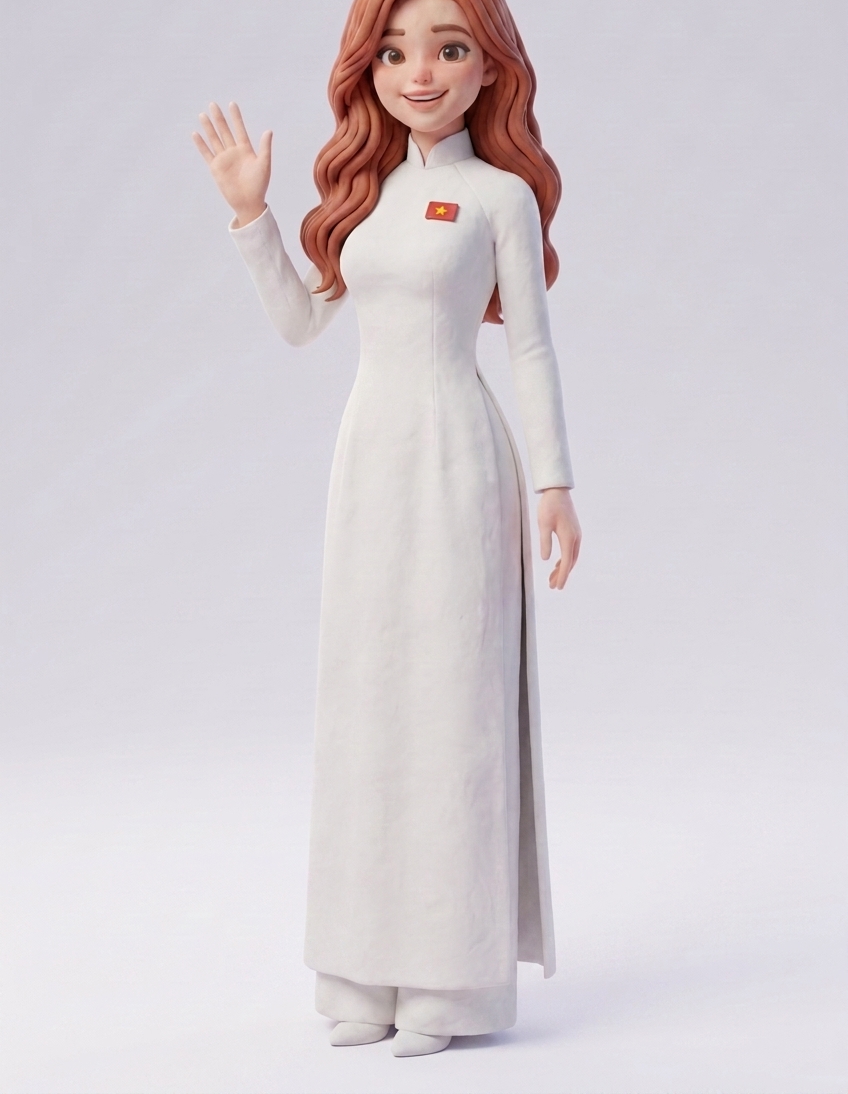
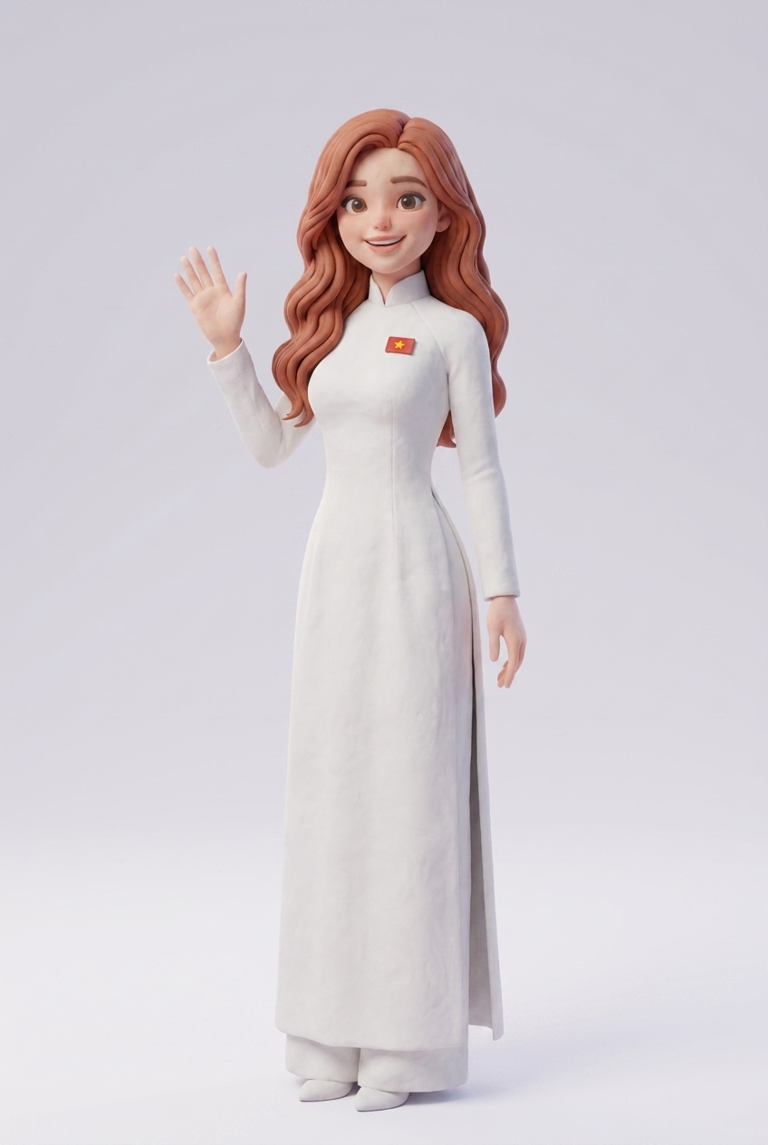
Cập nhật 2 tạo hình chính thức của Lumina (Miss Hương)
- lumina-ao-dai.png: bản Việt Nam mới — áo dài trắng vẫy tay chào, huy
  hiệu cờ đỏ sao vàng, không có chữ in sẵn
- lumina-vest.png: bản Quốc tế mới — váy công sở trắng, kính, cầm máy
  tính bảng (đúng hồ sơ nhân dạng đăng ký bản quyền)
- sw.js: cache v15

Changed region(s): [[0.2188, 0.0, 0.6875, 0.8391], [0.375, 0.8702, 0.5938, 0.9945], [0.5938, 0.8702, 0.6562, 0.9013]]

diff --git a/sw.js b/sw.js
@@ -1,7 +1,7 @@
 /* BizOn Bật Nghiệp 2026 — Service Worker (offline app shell)
  * © 2026 Đỗ Thùy Hương & PGS.TS Phan Anh Tú. Bảo lưu mọi quyền. */
 
-const CACHE = 'bizon-v14';
+const CACHE = 'bizon-v15';
 const SHELL = [
   './',
   './index.html',
